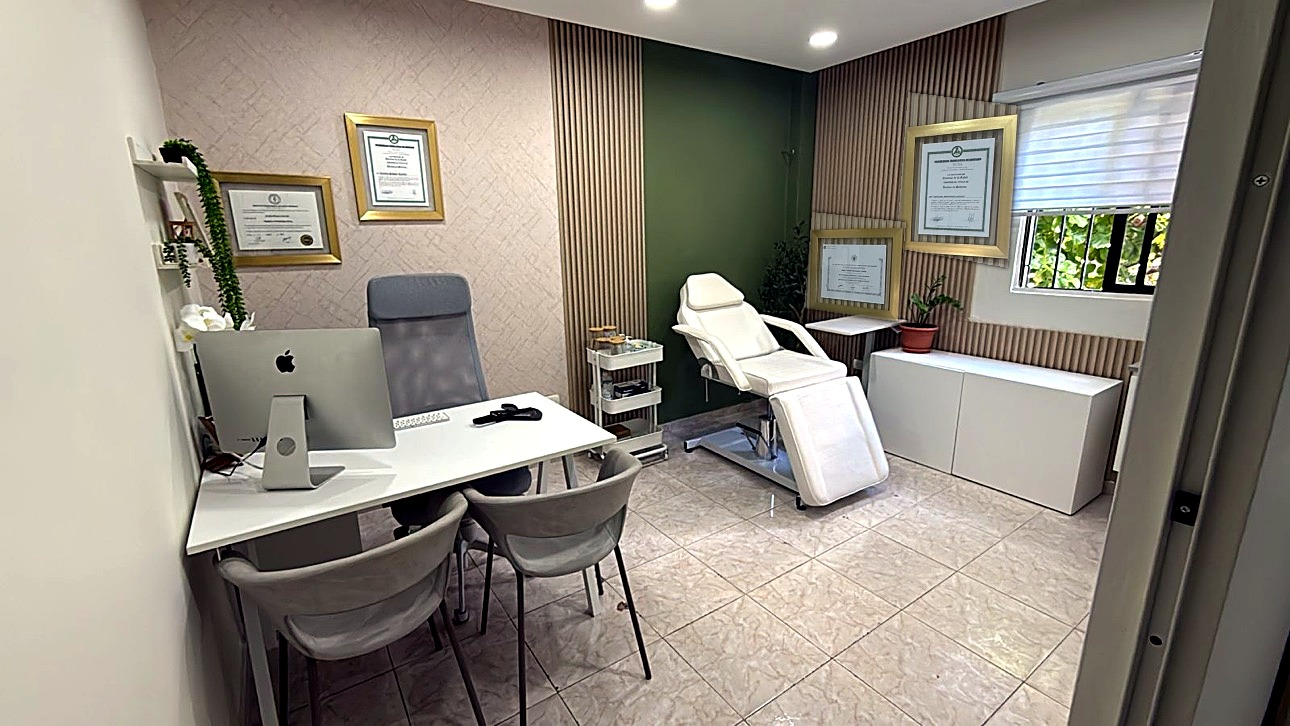
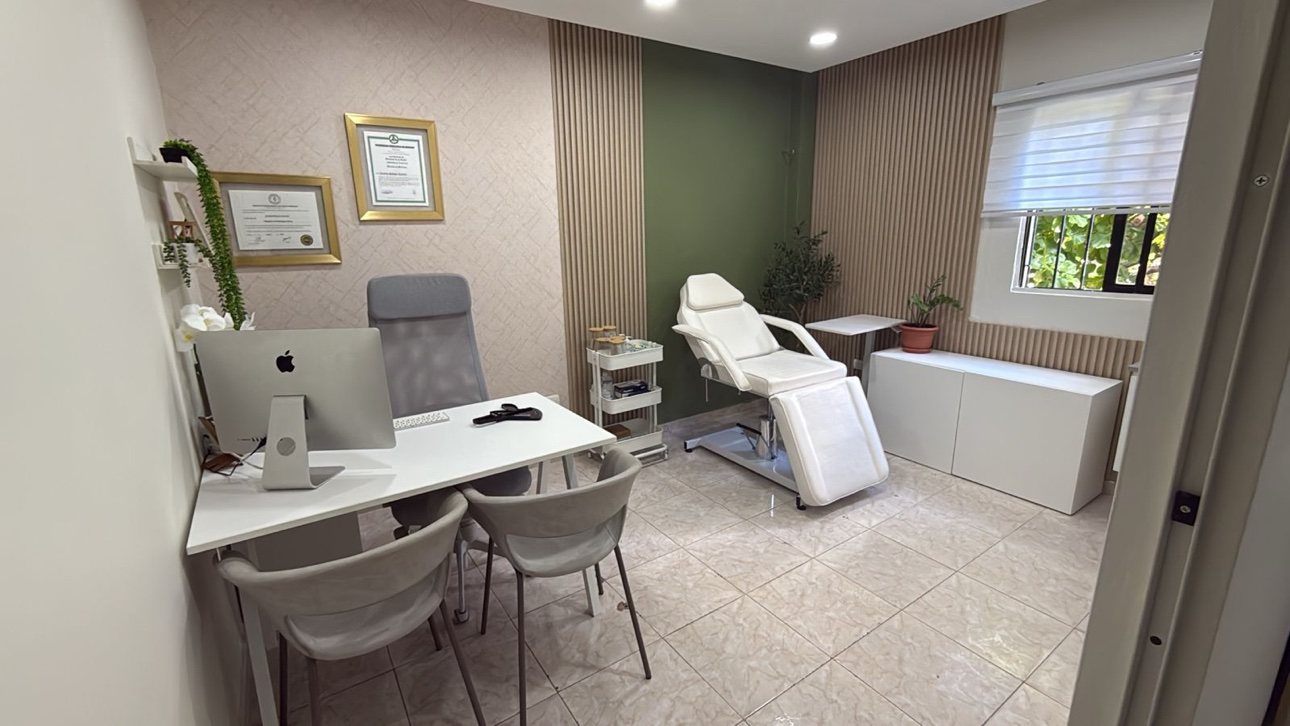
Hero photo replaced with the new original room photo; 'clínica' wording changed to 'centro estético'/'centro' site-wide (titles, hero, alts, footer, booking emails and calendar label); Antes y Después intro sentence replaced

diff --git a/src/index.html b/src/index.html
@@ -1,6 +1,6 @@
 ---
 title: "Clinica Estetica en Puerto Plata | Dra. Cristabel Hernandez | Republica Dominicana"
-description: "Clínica estética en Puerto Plata, República Dominicana. Medicina estética facial y corporal con la Dra. Cristabel Hernández: toxina botulínica, microneedling, plasma rico en plaquetas y más. Reserva tu cita."
+description: "Centro estético en Puerto Plata, República Dominicana. Medicina estética facial y corporal con la Dra. Cristabel Hernández: toxina botulínica, microneedling, plasma rico en plaquetas y más. Reserva tu cita."
 permalink: "/"
 tags: "sitemap" # content/content.json will make sure that all pages in content/ are marked with a "sitemap" tag, for automatic sitemap generation. As index.html is not in content/, we need to add it here to ensure the root page is included in the sitemap generation
 ---
@@ -38,7 +38,7 @@ tags: "sitemap" # content/content.json will make sure that all pages in content/
                 <div class="cs-content">
                     <h1 class="cs-title">Realza tu belleza natural</h1>
                     <p class="cs-text">
-                        En nuestra clínica estética en Puerto Plata cuidamos tu piel y tu figura con tratamientos seguros, tecnología moderna y atención personalizada.
+                        En nuestro centro estético en Puerto Plata cuidamos tu piel y tu figura con tratamientos seguros, tecnología moderna y atención personalizada.
                     </p>
                     <a href="/reservar/" class="cs-button-solid">Reserva tu cita</a>
                 </div>
@@ -49,14 +49,14 @@ tags: "sitemap" # content/content.json will make sure that all pages in content/
             <source media="(max-width: 600px)" srcset="{% getUrl "/assets/images/tratamiento-facial.jpg" | resize({ width: 640, height: 708 }) | webp %}" type="image/webp">
             <source media="(min-width: 601px)" srcset="{% getUrl "/assets/images/tratamiento-facial.jpg" | resize({ width: 860, height: 950 }) | avif %}" type="image/avif">
             <source media="(min-width: 601px)" srcset="{% getUrl "/assets/images/tratamiento-facial.jpg" | resize({ width: 860, height: 950 }) | webp %}" type="image/webp">
-            <img aria-hidden="true" decoding="async" src="{% getUrl "/assets/images/tratamiento-facial.jpg" | resize({ width: 860, height: 950 }) | jpeg %}" alt="tratamiento facial en la clínica" width="860" height="950" loading="eager">
+            <img aria-hidden="true" decoding="async" src="{% getUrl "/assets/images/tratamiento-facial.jpg" | resize({ width: 860, height: 950 }) | jpeg %}" alt="tratamiento facial en el centro" width="860" height="950" loading="eager">
         </picture>
         <picture class="cs-background">
             <source media="(max-width: 600px)" srcset="{% getUrl "/assets/images/hero-clinica.jpg" | resize({ width: 640, height: 644 }) | avif %}" type="image/avif">
             <source media="(max-width: 600px)" srcset="{% getUrl "/assets/images/hero-clinica.jpg" | resize({ width: 640, height: 644 }) | webp %}" type="image/webp">
             <source media="(min-width: 601px)" srcset="{% getUrl "/assets/images/hero-clinica.jpg" | resize({ width: 860, height: 867 }) | avif %}" type="image/avif">
             <source media="(min-width: 601px)" srcset="{% getUrl "/assets/images/hero-clinica.jpg" | resize({ width: 860, height: 867 }) | webp %}" type="image/webp">
-            <img aria-hidden="true" decoding="async" src="{% getUrl "/assets/images/hero-clinica.jpg" | resize({ width: 860, height: 867 }) | jpeg %}" alt="sala de tratamientos de la clínica" width="860" height="867" loading="eager">
+            <img aria-hidden="true" decoding="async" src="{% getUrl "/assets/images/hero-clinica.jpg" | resize({ width: 860, height: 867 }) | jpeg %}" alt="sala de tratamientos del centro" width="860" height="867" loading="eager">
         </picture>
     </section>
 
@@ -237,7 +237,7 @@ tags: "sitemap" # content/content.json will make sure that all pages in content/
                 <div class="cs-flex">
                     <span class="cs-topper">Resultados</span>
                     <h2 class="cs-title">Antes y después de nuestros tratamientos</h2>
-                    <p class="cs-text ba-intro">Desliza el control de la tarjeta para comparar el antes y el después de este tratamiento real.</p>
+                    <p class="cs-text ba-intro">Un resultado real de este tratamiento: el antes y el después.</p>
                 </div>
                 <a class="cs-button-solid" href="/resultados/">Ver más resultados</a>
             </div>
@@ -491,7 +491,7 @@ tags: "sitemap" # content/content.json will make sure that all pages in content/
             <source media="(max-width: 600px)" srcset="{% getUrl "/assets/images/clinica-recepcion.jpg" | resize({ width: 272, height: 320 }) | webp %}" type="image/webp">
             <source media="(min-width: 601px)" srcset="{% getUrl "/assets/images/clinica-recepcion.jpg" | resize({ width: 272, height: 320 }) | avif %}" type="image/avif">
             <source media="(min-width: 601px)" srcset="{% getUrl "/assets/images/clinica-recepcion.jpg" | resize({ width: 272, height: 320 }) | webp %}" type="image/webp">
-            <img loading="lazy" decoding="async" src="{% getUrl "/assets/images/clinica-recepcion.jpg" | resize({ width: 272, height: 320 }) | jpeg %}" alt="interior de la clínica" width="272" height="320">
+            <img loading="lazy" decoding="async" src="{% getUrl "/assets/images/clinica-recepcion.jpg" | resize({ width: 272, height: 320 }) | jpeg %}" alt="interior del centro" width="272" height="320">
         </picture>
             <!--Picture 5-->
             <picture class="cs-picture">

diff --git a/src/content/pages/resultados.html b/src/content/pages/resultados.html
@@ -1,6 +1,6 @@
 ---
-title: "Resultados | Antes y Después | Clínica Estética Dra. Cristabel Hernández"
-description: "Resultados reales antes y después en Puerto Plata: toxina botulínica en frente y patas de gallo. Desliza para comparar y reserva tu evaluación."
+title: "Resultados | Antes y Después | Centro Estético Dra. Cristabel Hernández"
+description: "Resultados reales antes y después en Puerto Plata: toxina botulínica en frente y patas de gallo. Compara el antes y el después y reserva tu evaluación."
 permalink: "/resultados/"
 ---
 
@@ -32,7 +32,7 @@ permalink: "/resultados/"
                 <div class="cs-flex">
                     <span class="cs-topper">Antes y después</span>
                     <h2 class="cs-title">Resultados que se ven y se sienten</h2>
-                    <p class="cs-text ba-intro">Desliza el control de la tarjeta para comparar el antes y el después de este tratamiento real.</p>
+                    <p class="cs-text ba-intro">Un resultado real de este tratamiento: el antes y el después.</p>
                 </div>
                 <a class="cs-button-solid" href="/reservar/">Reserva tu cita</a>
             </div>
@@ -119,7 +119,7 @@ permalink: "/resultados/"
             <div class="cs-content">
                 <div class="cs-flex">
                     <span class="cs-topper">Galería</span>
-                    <h2 class="cs-title">Conoce nuestra clínica</h2>
+                    <h2 class="cs-title">Conoce nuestro centro</h2>
                 </div>
             </div>
             <!--Gallery-->
@@ -130,7 +130,7 @@ permalink: "/resultados/"
             <source media="(max-width: 600px)" srcset="{% getUrl "/assets/images/clinica-recepcion.jpg" | resize({ width: 305, height: 400 }) | webp %}" type="image/webp">
             <source media="(min-width: 601px)" srcset="{% getUrl "/assets/images/clinica-recepcion.jpg" | resize({ width: 305, height: 400 }) | avif %}" type="image/avif">
             <source media="(min-width: 601px)" srcset="{% getUrl "/assets/images/clinica-recepcion.jpg" | resize({ width: 305, height: 400 }) | webp %}" type="image/webp">
-            <img loading="lazy" decoding="async" src="{% getUrl "/assets/images/clinica-recepcion.jpg" | resize({ width: 305, height: 400 }) | jpeg %}" alt="recepción de la clínica" width="305" height="400">
+            <img loading="lazy" decoding="async" src="{% getUrl "/assets/images/clinica-recepcion.jpg" | resize({ width: 305, height: 400 }) | jpeg %}" alt="recepción del centro" width="305" height="400">
         </picture>
                 <!--Picture 2-->
                 <picture class="cs-picture">
@@ -170,7 +170,7 @@ permalink: "/resultados/"
             <source media="(max-width: 600px)" srcset="{% getUrl "/assets/images/clinica-recepcion.jpg" | resize({ width: 305, height: 400 }) | webp %}" type="image/webp">
             <source media="(min-width: 601px)" srcset="{% getUrl "/assets/images/clinica-recepcion.jpg" | resize({ width: 305, height: 400 }) | avif %}" type="image/avif">
             <source media="(min-width: 601px)" srcset="{% getUrl "/assets/images/clinica-recepcion.jpg" | resize({ width: 305, height: 400 }) | webp %}" type="image/webp">
-            <img loading="lazy" decoding="async" src="{% getUrl "/assets/images/clinica-recepcion.jpg" | resize({ width: 305, height: 400 }) | jpeg %}" alt="interior de la clínica" width="305" height="400">
+            <img loading="lazy" decoding="async" src="{% getUrl "/assets/images/clinica-recepcion.jpg" | resize({ width: 305, height: 400 }) | jpeg %}" alt="interior del centro" width="305" height="400">
         </picture>
                 <!--Picture 7-->
                 <picture class="cs-picture">
@@ -178,7 +178,7 @@ permalink: "/resultados/"
             <source media="(max-width: 600px)" srcset="{% getUrl "/assets/images/clinica-productos.jpg" | resize({ width: 305, height: 400 }) | webp %}" type="image/webp">
             <source media="(min-width: 601px)" srcset="{% getUrl "/assets/images/clinica-productos.jpg" | resize({ width: 305, height: 400 }) | avif %}" type="image/avif">
             <source media="(min-width: 601px)" srcset="{% getUrl "/assets/images/clinica-productos.jpg" | resize({ width: 305, height: 400 }) | webp %}" type="image/webp">
-            <img loading="lazy" decoding="async" src="{% getUrl "/assets/images/clinica-productos.jpg" | resize({ width: 305, height: 400 }) | jpeg %}" alt="productos profesionales de la clínica" width="305" height="400">
+            <img loading="lazy" decoding="async" src="{% getUrl "/assets/images/clinica-productos.jpg" | resize({ width: 305, height: 400 }) | jpeg %}" alt="productos profesionales del centro" width="305" height="400">
         </picture>
                 <!--Picture 8-->
                 <picture class="cs-picture">

diff --git a/src/content/pages/nosotros.html b/src/content/pages/nosotros.html
@@ -1,6 +1,6 @@
 ---
-title: "Nosotros | Clínica Estética Dra. Cristabel Hernández"
-description: "Conoce a la Dra. Cristabel Hernández y su clínica estética en Puerto Plata, República Dominicana: atención personalizada, productos de calidad y resultados naturales."
+title: "Nosotros | Centro Estético Dra. Cristabel Hernández"
+description: "Conoce a la Dra. Cristabel Hernández y su centro estético en Puerto Plata, República Dominicana: atención personalizada, productos de calidad y resultados naturales."
 permalink: "/nosotros/"
 ---
 
@@ -36,10 +36,10 @@ permalink: "/nosotros/"
             <img loading="lazy" decoding="async" src="{% getUrl "/assets/images/doctora-sbs.jpg" | resize({ width: 960, height: 796 }) | jpeg %}" alt="Dra. Cristabel Hernández" width="960" height="796">
         </picture>
             <div class="cs-content">
-                <span class="cs-topper">Nuestra clínica</span>
+                <span class="cs-topper">Nuestro centro</span>
                 <h2 class="cs-title">Cuidamos tu piel con trato humano y profesional</h2>
                 <p class="cs-text">
-                    En el corazón de Puerto Plata, nuestra clínica estética nació con una idea sencilla: que cada paciente se sienta escuchada, bien informada y en manos seguras. La Dra. Cristabel Hernández dirige personalmente cada evaluación y cada plan de tratamiento.
+                    En el corazón de Puerto Plata, nuestro centro estético nació con una idea sencilla: que cada paciente se sienta escuchada, bien informada y en manos seguras. La Dra. Cristabel Hernández dirige personalmente cada evaluación y cada plan de tratamiento.
                 </p>
                 <p class="cs-text">
                     Creemos en la belleza natural y en los resultados progresivos: nada de cambios exagerados ni promesas imposibles. Trabajamos con productos de calidad, tecnología moderna y protocolos seguros, en un espacio pensado para que te relajes desde que entras.

diff --git a/src/content/pages/project-two.html b/src/content/pages/project-two.html
@@ -1,5 +1,5 @@
 ---
-title: "Tratamientos Corporales | Clínica Estética Dra. Cristabel Hernández"
+title: "Tratamientos Corporales | Centro Estético Dra. Cristabel Hernández"
 description: "Tratamientos corporales en Puerto Plata: escleroterapia, lipólisis localizada con Aqualyx, anticelulítico Alidya y rejuvenecimiento de cuello, escote y manos. Reserva tu cita."
 permalink: "/tratamientos-corporales/"
 ---
@@ -33,7 +33,7 @@ permalink: "/tratamientos-corporales/"
             <source media="(max-width: 600px)" srcset="{% getUrl "/assets/images/tratamiento-corporal.jpg" | resize({ width: 576, height: 477 }) | webp %}" type="image/webp">
             <source media="(min-width: 601px)" srcset="{% getUrl "/assets/images/tratamiento-corporal.jpg" | resize({ width: 960, height: 796 }) | avif %}" type="image/avif">
             <source media="(min-width: 601px)" srcset="{% getUrl "/assets/images/tratamiento-corporal.jpg" | resize({ width: 960, height: 796 }) | webp %}" type="image/webp">
-            <img loading="lazy" decoding="async" src="{% getUrl "/assets/images/tratamiento-corporal.jpg" | resize({ width: 960, height: 796 }) | jpeg %}" alt="tratamiento corporal en la clínica" width="960" height="796">
+            <img loading="lazy" decoding="async" src="{% getUrl "/assets/images/tratamiento-corporal.jpg" | resize({ width: 960, height: 796 }) | jpeg %}" alt="tratamiento corporal en el centro" width="960" height="796">
         </picture>
             <div class="cs-content">
                 <span class="cs-topper">Corporales</span>

diff --git a/src/content/pages/project-one.html b/src/content/pages/project-one.html
@@ -1,5 +1,5 @@
 ---
-title: "Tratamientos Faciales | Clínica Estética Dra. Cristabel Hernández"
+title: "Tratamientos Faciales | Centro Estético Dra. Cristabel Hernández"
 description: "Tratamientos faciales en Puerto Plata: toxina botulínica, microneedling, plasma rico en plaquetas, mesoterapia facial y peelings químicos. Reserva tu cita."
 permalink: "/tratamientos-faciales/"
 ---
@@ -33,7 +33,7 @@ permalink: "/tratamientos-faciales/"
             <source media="(max-width: 600px)" srcset="{% getUrl "/assets/images/tratamiento-facial.jpg" | resize({ width: 576, height: 477 }) | webp %}" type="image/webp">
             <source media="(min-width: 601px)" srcset="{% getUrl "/assets/images/tratamiento-facial.jpg" | resize({ width: 960, height: 796 }) | avif %}" type="image/avif">
             <source media="(min-width: 601px)" srcset="{% getUrl "/assets/images/tratamiento-facial.jpg" | resize({ width: 960, height: 796 }) | webp %}" type="image/webp">
-            <img loading="lazy" decoding="async" src="{% getUrl "/assets/images/tratamiento-facial.jpg" | resize({ width: 960, height: 796 }) | jpeg %}" alt="tratamiento facial en la clínica" width="960" height="796">
+            <img loading="lazy" decoding="async" src="{% getUrl "/assets/images/tratamiento-facial.jpg" | resize({ width: 960, height: 796 }) | jpeg %}" alt="tratamiento facial en el centro" width="960" height="796">
         </picture>
             <div class="cs-content">
                 <span class="cs-topper">Faciales</span>

diff --git a/netlify/functions/send-booking-email.js b/netlify/functions/send-booking-email.js
@@ -170,7 +170,7 @@ function createGoogleCalendarUrl(booking) {
     [
       `Paciente: ${patientName || "N/A"}`,
       `Servicios: ${serviceNames || "No especificado"}`,
-      `Clínica: Dra. Cristabel Hernandez`,
+      `Centro estético: Dra. Cristabel Hernandez`,
       `Teléfono: (829) 316-3313`,
       `Dirección: Calle Beller No. 129, Plaza Metropolis 2ndo Nivel, Puerto Plata`,
     ].join("\n"),
@@ -196,7 +196,7 @@ function createICSContent(booking) {
   const description = [
     `Paciente: ${patientName || "N/A"}`,
     `Servicios: ${serviceNames || "No especificado"}`,
-    `Clínica: Dra. Cristabel Hernandez`,
+    `Centro estético: Dra. Cristabel Hernandez`,
     `Teléfono: (829) 316-3313`,
     `Dirección: Calle Beller No. 129, Plaza Metropolis 2ndo Nivel, Puerto Plata`,
   ].join("\\n");

diff --git a/src/_includes/sections/footer.html b/src/_includes/sections/footer.html
@@ -10,7 +10,7 @@
                 <img class="cs-logo-img" aria-hidden="true" loading="lazy" decoding="async" src="/assets/svgs/cristabel-logo-blanco.svg" alt="Dra. Cristabel Hernández" width="240" height="32">
             </a>
             <p class="cs-text">
-                Clínica estética en Puerto Plata, República Dominicana. Tratamientos faciales y corporales con atención personalizada y resultados naturales.
+                Centro estético en Puerto Plata, República Dominicana. Tratamientos faciales y corporales con atención personalizada y resultados naturales.
             </p>
             <div class="cs-social">
                 <a class="cs-social-link" aria-label="ver nuestra ubicación en Google Maps" href="{{ client.address.mapLink }}" target="_blank" rel="noopener">

diff --git a/src/assets/js/calendar.js b/src/assets/js/calendar.js
@@ -201,7 +201,7 @@ const CalendarUtils = {
     const detailsParts = [
       `Paciente: ${patientName || "N/A"}`,
       `Servicios: ${serviceNames || "No especificado"}`,
-      `Clínica: ${this.BUSINESS_NAME}`,
+      `Centro estético: ${this.BUSINESS_NAME}`,
       `Teléfono: ${this.BUSINESS_PHONE}`,
       `Dirección: ${this.BUSINESS_ADDRESS}`,
     ];
@@ -236,7 +236,7 @@ const CalendarUtils = {
     const descriptionParts = [
       `Paciente: ${patientName || "N/A"}`,
       `Servicios: ${serviceNames || "No especificado"}`,
-      `Clínica: ${this.BUSINESS_NAME}`,
+      `Centro estético: ${this.BUSINESS_NAME}`,
       `Teléfono: ${this.BUSINESS_PHONE}`,
       `Dirección: ${this.BUSINESS_ADDRESS}`,
     ];

diff --git a/src/content/pages/reservar-confirmacion.html b/src/content/pages/reservar-confirmacion.html
@@ -157,7 +157,7 @@ permalink: "/reservar/confirmacion/"
                         <a 
                             href="tel:+18293163313"
                             class="confirmacion-action-btn confirmacion-action-btn--phone"
-                            aria-label="Llamar a la clínica"
+                            aria-label="Llamar al centro"
                         >
                             <span class="confirmacion-action-btn-icon" aria-hidden="true">
                                 <svg viewBox="0 0 24 24" fill="none" xmlns="http://www.w3.org/2000/svg">

diff --git a/src/content/pages/tratamientos.html b/src/content/pages/tratamientos.html
@@ -1,5 +1,5 @@
 ---
-title: "Tratamientos | Clínica Estética Dra. Cristabel Hernández"
+title: "Tratamientos | Centro Estético Dra. Cristabel Hernández"
 description: "Medicina estética facial y corporal en Puerto Plata, República Dominicana: toxina botulínica, microneedling, plasma rico en plaquetas, escleroterapia y más. Conoce nuestros tratamientos y precios y reserva tu cita."
 permalink: "/tratamientos/"
 ---

diff --git a/src/content/pages/contactanos.html b/src/content/pages/contactanos.html
@@ -1,5 +1,5 @@
 ---
-title: "Contáctanos | Clínica Estética Dra. Cristabel Hernández"
+title: "Contáctanos | Centro Estético Dra. Cristabel Hernández"
 description: "Contáctanos: Calle Beller No. 129, Plaza Metropolis 2do Nivel, Puerto Plata, República Dominicana. Teléfono (829) 316-3313. Escríbenos o reserva tu cita en línea."
 permalink: "/contactanos/"
 ---

diff --git a/src/content/pages/testimonios.html b/src/content/pages/testimonios.html
@@ -1,5 +1,5 @@
 ---
-title: "Testimonios | Clínica Estética Dra. Cristabel Hernández"
+title: "Testimonios | Centro Estético Dra. Cristabel Hernández"
 description: "Lo que dicen nuestras pacientes sobre sus tratamientos de medicina estética facial y corporal en Puerto Plata. Reserva tu cita con la Dra. Cristabel Hernández."
 permalink: "/testimonios/"
 ---
